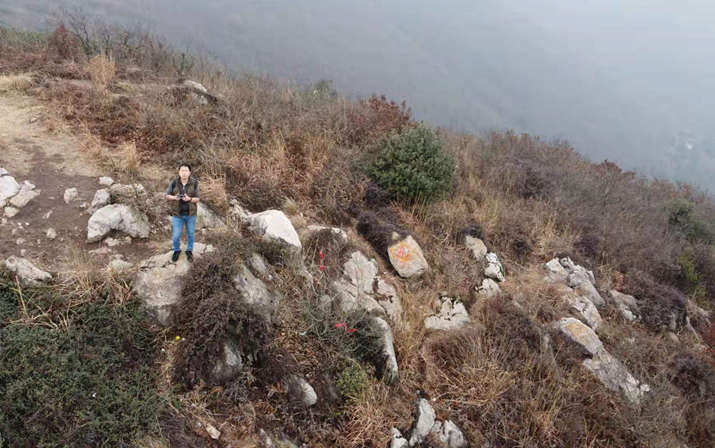
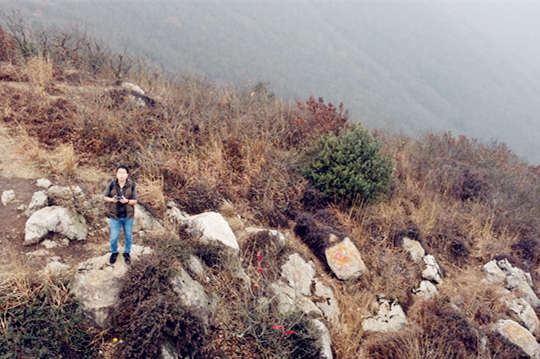
update

diff --git a/皆有历史.rst b/皆有历史.rst
@@ -1,0 +1,25 @@
+.. post:: Jan 27, 2021
+   :tags: 哲学, 人生，感悟
+   :author: Qitas
+   :location: SUZ
+
+皆有故事
+================
+
+“我们如此相似，我们如此不同。”       —— 莫言
+
+.. figure:: /imges/5.jpg
+   :width: 100%
+   :align: center
+
+
+若无相欠，怎会相见
+----------------
+
+哪些有命名的东西，都是有历史的，古往今来多少个不同的灵魂啊，这世间的几出戏反反复复上演，该在这世间留下多少感悟，所以我们都不是这宇宙中孤独的存在。
+
+      “于千万人之中遇见你所遇见的人，于千万年之中时间的无涯的荒野里，没有早一步，也没有晚一步，正巧赶上了，那也没有什么别的可说，唯有轻轻问一句：“哦，你也在这里吗？”
+
+所有相遇皆有因果，欠的多了，这一世便结伴地久一些，欠的少了，还完了也就散了。
+
+人生漫漫，你走过的路，读过的书，爱过的人，路过的风景，经历过的往事，都会使你成为更加温润的自己，使你在未来，可以更坦然地走下去。

diff --git a/向上生长.rst b/向上生长.rst
@@ -3,17 +3,27 @@
    :author: Qitas
    :location: SUZ
 
-奋力攀登
+向上生长
 ================
 
 “人生有两出悲剧，一是万念俱灰，另一是踌躇满志。”       —— 萧伯纳
 
-.. figure:: /imges/3.jpg
+.. figure:: /imges/4.jpg
    :width: 100%
    :align: center
 
-   向上攀登
+   向上生长
 
+认识自己
+----------------
+
+人一生有三次妥协：第一次是意识到父母很普通；第二次是意识到自己也很普通；第三次是意识到自己的孩子原来也很普通。
+
+当下，虽然父母普通，但大部分时候都不需要拼爹。
+
+最豁然开朗的时刻，就是意识到自己是个普通人。承认自己平庸，可以帮助自己更好的认清楚自己所处的阶段，从而更好的做出选择。
+
+接受自己平庸的人，已经在正确的道路上前进了。
 
 努力的意义
 ----------------
